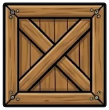
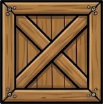
Stacked crates sit flush: trim the see-through edge and overlap the outlines

diff --git a/src/scenes/GameScene.js b/src/scenes/GameScene.js
@@ -85,7 +85,8 @@ export class GameScene extends Phaser.Scene {
     this.boxes = this.level.boxes.map((b) => ({
       ...b,
       alive: true,
-      img: this.add.image(b.x, b.y, 'crate').setDisplaySize(BOX, BOX).setDepth(20), // a wooden crate
+      // a wooden crate, drawn a touch bigger than its spot so stacked crates' outlines overlap (no gaps)
+      img: this.add.image(b.x, b.y, 'crate').setDisplaySize(BOX + 3, BOX + 3).setDepth(20),
     }));
 
     this.stars = this.level.stars.map((s, i) => {

diff --git a/tools/slice_env.py b/tools/slice_env.py
@@ -471,8 +471,12 @@ def main():
         part = cut_white(load(sheet)[y0:y1, x0:x1], hole_min=3000)
         save(trim(keep_largest(part) if largest else part), f"{name}.png")
 
-    # the wooden crates the trucks smash (nothing white inside the crate is art)
-    save(trim(keep_largest(cut_white(load("crate.png"), hole_min=10**9))), "crate.png")
+    # the wooden crates the trucks smash (nothing white inside the crate is art).
+    # Trimmed tight, with no see-through margin, so stacked crates sit flush
+    crate = trim(keep_largest(cut_white(load("crate.png"), hole_min=10**9)), pad=0)
+    a = crate[..., 3]
+    ys, xs = np.where(a > 200)  # crop off the faint outer edge too
+    save(crate[ys.min() : ys.max() + 1, xs.min() : xs.max() + 1], "crate.png")
 
     # the second truck (the ghost truck). Its wheels: Ben's side-on wheel repainted like
     # the reference picture (truck2_reference.png) - lime-green rims with purple
